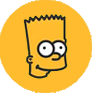
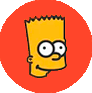
se ahora las fichas se ven con colores, y en el menu solo podes seleccionar entre 3 opciones

diff --git a/tinygames/js/Models/MenuModel.js b/tinygames/js/Models/MenuModel.js
@@ -40,16 +40,16 @@ class MenuModel {
         const itemWidth = 150;
         const itemHeight = 150;
         const gap = 40;
-        const totalWidth = (itemWidth * 2) + gap;
-        const totalHeight = (itemHeight * 2) + gap;
+        const numItems = 3; // Ahora son 3 items
+        const totalWidth = (itemWidth * numItems) + (gap * (numItems - 1));
         const startX = (canvasWidth - totalWidth) / 2;
-        const startY = (canvasHeight - totalHeight) / 2;
+        const startY = (canvasHeight - itemHeight) / 2; // Centrado verticalmente
 
         this.menuItems = [
-            { id: 'homero', x: startX, y: startY, width: itemWidth, height: itemHeight, image: this.images.homero, src: this.imageSources.homero },
-            { id: 'marge', x: startX + itemWidth + gap, y: startY, width: itemWidth, height: itemHeight, image: this.images.marge, src: this.imageSources.marge },
-            { id: 'bart', x: startX, y: startY + itemHeight + gap, width: itemWidth, height: itemHeight, image: this.images.bart, src: this.imageSources.bart },
-            { id: 'lisa', x: startX + itemWidth + gap, y: startY + itemHeight + gap, width: itemWidth, height: itemHeight, image: this.images.lisa, src: this.imageSources.lisa }
+            // Homero ya no es una opción seleccionable en el menú
+            { id: 'marge', x: startX, y: startY, width: itemWidth, height: itemHeight, image: this.images.marge, src: this.imageSources.marge },
+            { id: 'bart', x: startX + itemWidth + gap, y: startY, width: itemWidth, height: itemHeight, image: this.images.bart, src: this.imageSources.bart },
+            { id: 'lisa', x: startX + (itemWidth + gap) * 2, y: startY, width: itemWidth, height: itemHeight, image: this.images.lisa, src: this.imageSources.lisa }
         ];
     }
 
@@ -68,4 +68,3 @@ class MenuModel {
         this.selectedCharacterSrc = src;
     }
 }
-
